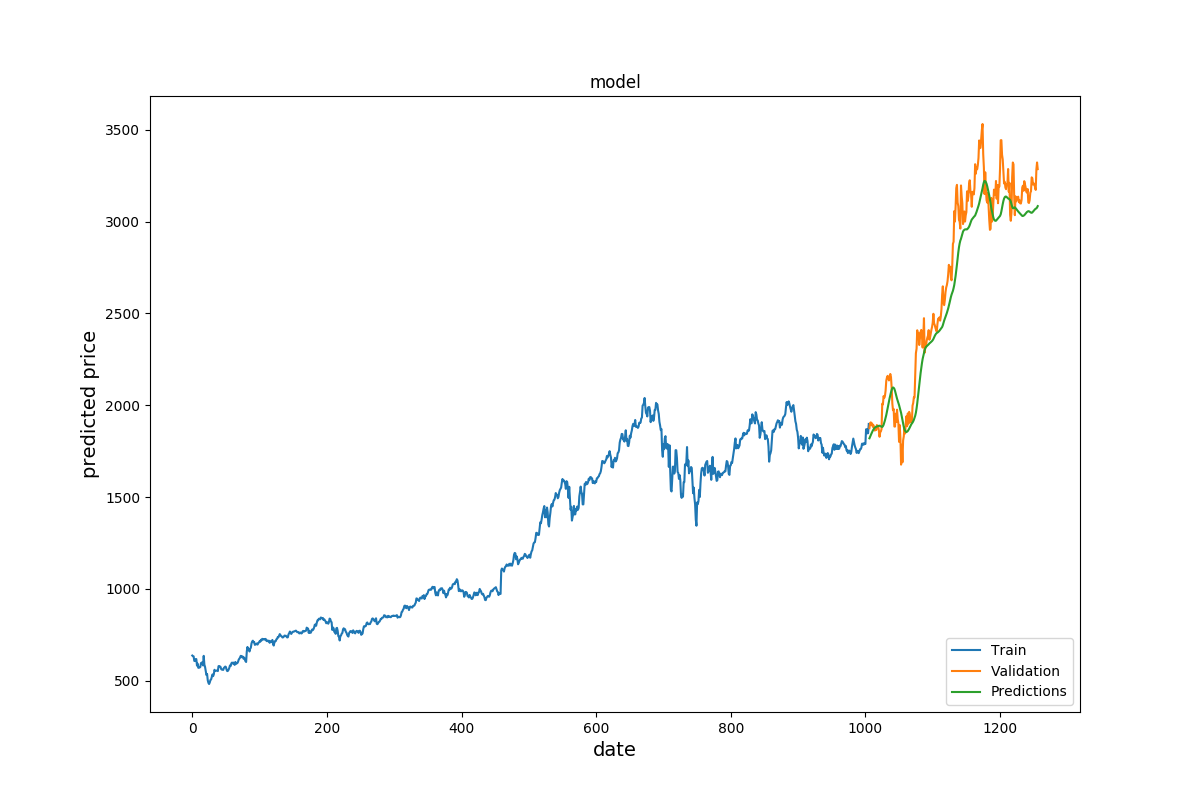
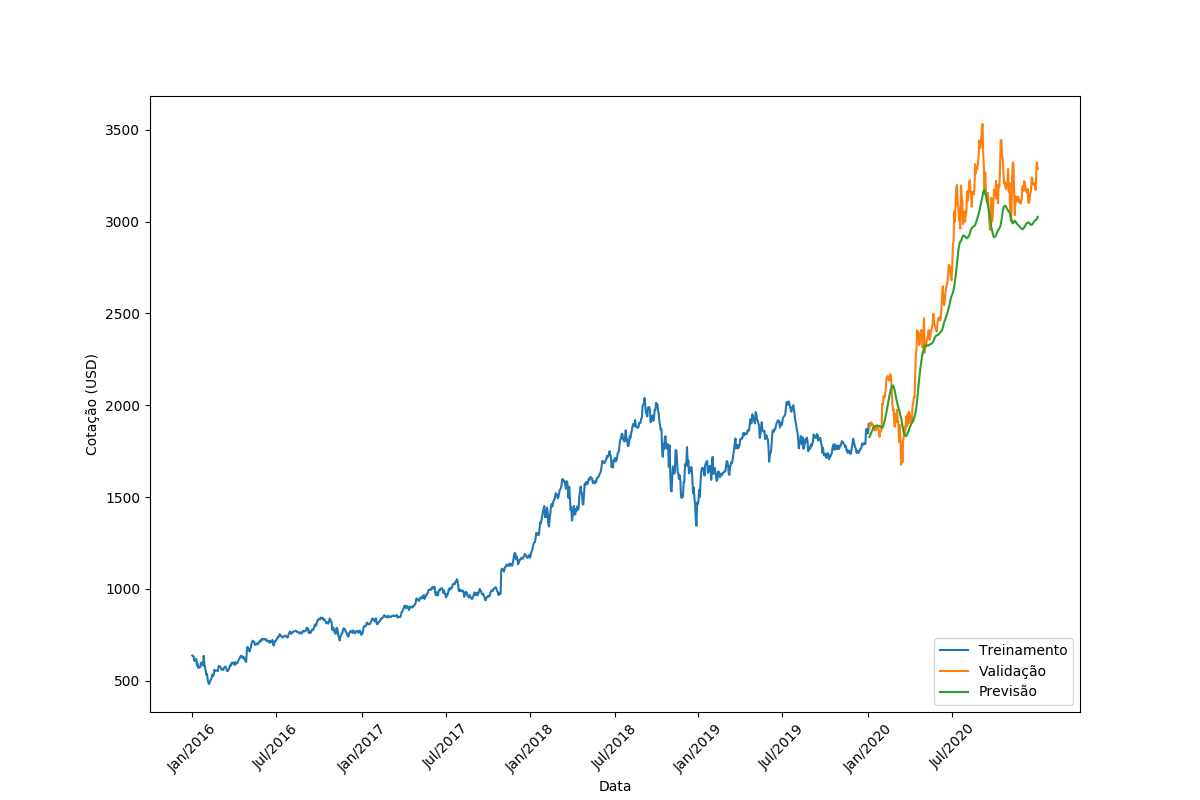
improve plots / save rmse

diff --git a/predictor.py b/predictor.py
@@ -1,3 +1,6 @@
+#!/usr/bin/env python
+# -*- coding: utf-8 -*-
+
 import math
 import numpy as np
 import pandas as pd
@@ -5,6 +8,24 @@ from sklearn.preprocessing import MinMaxScaler
 from keras.models import Sequential
 from keras.layers import Dense, LSTM
 import matplotlib.pyplot as plt
+
+def set_ticks():
+  return [
+    0, 124, # 0, 60, 124, 188,
+    252, 377, # 252, 313, 377, 439,
+    502, 628, # 502, 563, 628, 690,
+    752, 876, # 752, 813, 876, 940,
+    1004, 1129 # 1004, 1066, 1129, 1193
+  ]
+
+def set_labels():
+  return [
+    'Jan/2016', 'Jul/2016', # 'Jan/2016', 'Abr/2016', 'Jul/2016', 'Out/2016',
+    'Jan/2017', 'Jul/2017', # 'Jan/2017', 'Abr/2017', 'Jul/2017', 'Out/2017',
+    'Jan/2018', 'Jul/2018', # 'Jan/2018', 'Abr/2018', 'Jul/2018', 'Out/2018',
+    'Jan/2019', 'Jul/2019', # 'Jan/2019', 'Abr/2019', 'Jul/2019', 'Out/2019',
+    'Jan/2020', 'Jul/2020' # 'Jan/2020', 'Abr/2020', 'Jul/2020', 'Out/2020'
+  ]
 
 tickers = ['AAPL', 'BRK-B', 'GOOG', 'MSFT', 'V', 'AMZN', 'FB', 'JNJ', 'PG', 'WMT']
 
@@ -46,7 +67,7 @@ for ticker in tickers:
   model.add(Dense(1))
 
   model.compile(optimizer = 'adam', loss = 'mean_squared_error')
-  model.fit(x_train, y_train, batch_size = 128, epochs = 30)
+  model.fit(x_train, y_train, batch_size = 128, epochs = 50)
 
   test_data = scaled_data[training_data_len - window_size:, 0]
   x_test = []
@@ -60,40 +81,43 @@ for ticker in tickers:
   predictions = scaler.inverse_transform(predictions)
 
   rmse = np.sqrt(np.mean(((predictions - y_test)**2)))
-  print(rmse)
+  normalised_rmse = rmse/(max(y_test) - min(y_test))
+  with open('plots/metrics', 'a') as f:
+    f.write('{},{},{}\n'.format(ticker, rmse, normalised_rmse))
 
   train = data[:training_data_len]
   valid = data[training_data_len:]
   valid['Predictions'] = predictions
 
   plt.figure(figsize = (12, 8))
-  plt.title('model')
-  plt.xlabel('date', fontsize = 14)
-  plt.ylabel('predicted price', fontsize = 14)
+  # plt.title('model')
+  plt.xlabel('Data')
+  plt.ylabel('Cotação (USD)')
   plt.plot(train['Adj Close'])
   plt.plot(valid[['Adj Close', 'Predictions']])
-  plt.legend(['Train', 'Validation', 'Predictions'], loc = 'lower right')
+  plt.xticks(set_ticks(), set_labels(), rotation = 45)
+  plt.legend(['Treinamento', 'Validação', 'Previsão'], loc = 'lower right')
   plt.savefig('plots/{}.png'.format(ticker))
 
-  print('training_data_len: ', training_data_len)
-  print('tamanho train: ', len(train))
-  print('tamanho valid: ', len(valid))
+  # print('training_data_len: ', training_data_len)
+  # print('tamanho train: ', len(train))
+  # print('tamanho valid: ', len(valid))
 
   # predict closing price in x days
 
-  copia_do_df = pd.read_csv('sentiment_analysis/results/combined/{}.csv'.format(ticker))
-  new_df = copia_do_df.filter(['Adj Close'])
+  # copia_do_df = pd.read_csv('sentiment_analysis/results/combined/{}.csv'.format(ticker))
+  # new_df = copia_do_df.filter(['Adj Close'])
 
-  last_window_size_days = new_df[-window_size:].values
+  # last_window_size_days = new_df[-window_size:].values
 
-  last_window_size_days_scaled = scaler.transform(last_window_size_days)
+  # last_window_size_days_scaled = scaler.transform(last_window_size_days)
 
-  X_test = []
-  X_test.append(last_window_size_days_scaled)
-  X_test = np.array(X_test)
-  X_test = np.reshape(X_test, (X_test.shape[0], X_test.shape[1], 1))
+  # X_test = []
+  # X_test.append(last_window_size_days_scaled)
+  # X_test = np.array(X_test)
+  # X_test = np.reshape(X_test, (X_test.shape[0], X_test.shape[1], 1))
 
-  predicted_price = model.predict(X_test)
-  predicted_price = scaler.inverse_transform(predicted_price)
-  # print(last_window_size_days)
-  print(predicted_price)
+  # predicted_price = model.predict(X_test)
+  # predicted_price = scaler.inverse_transform(predicted_price)
+  # # print(last_window_size_days)
+  # print(predicted_price)
